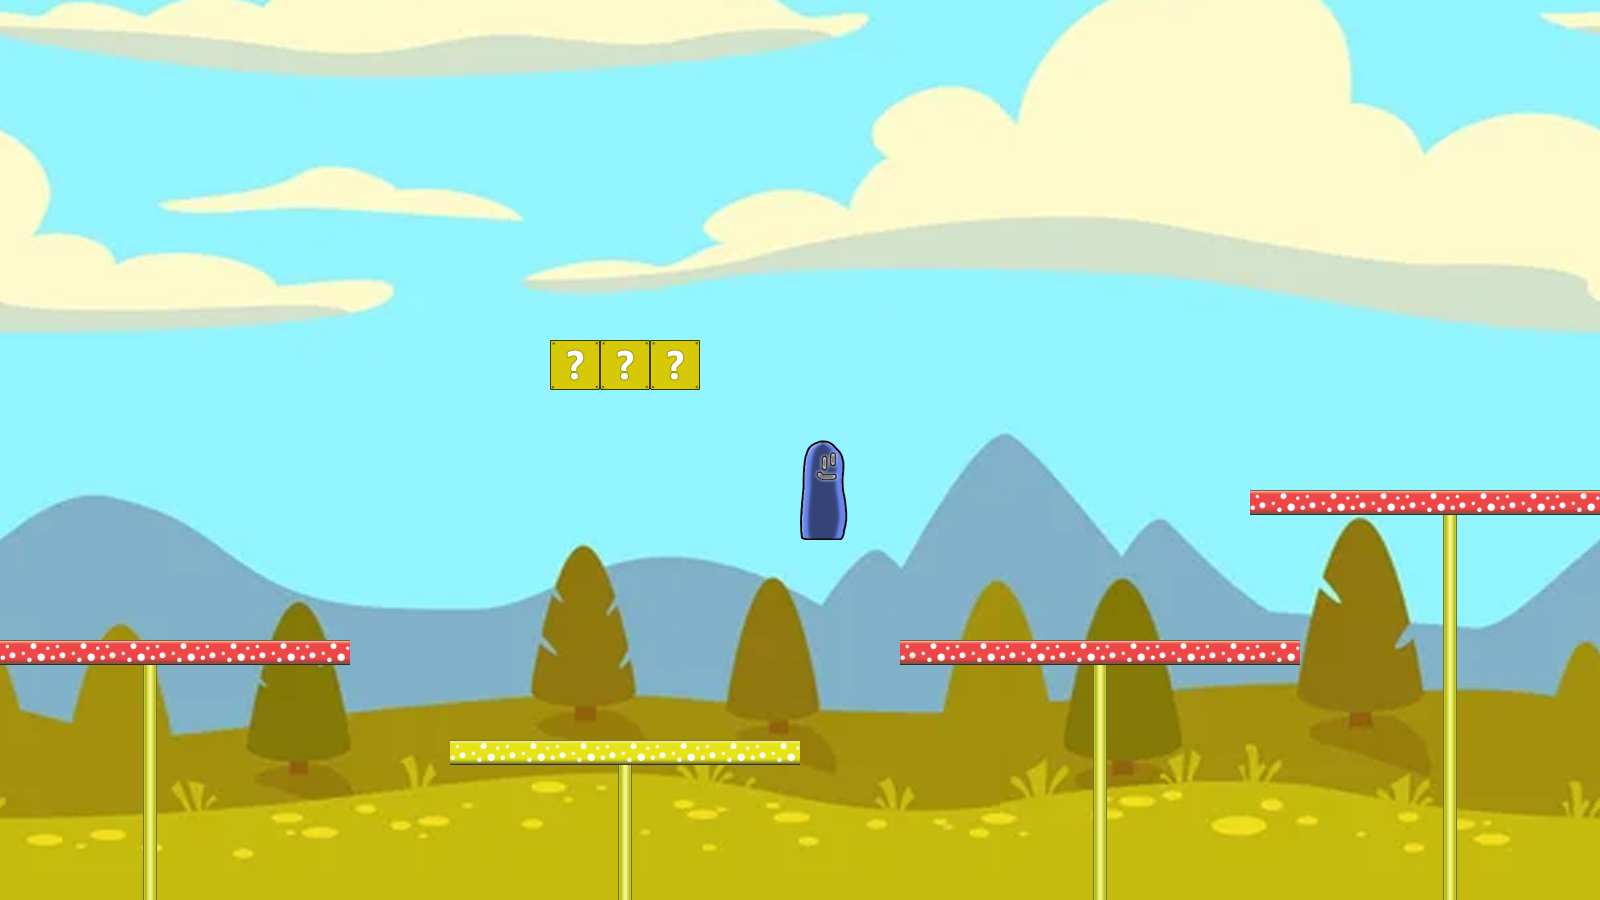
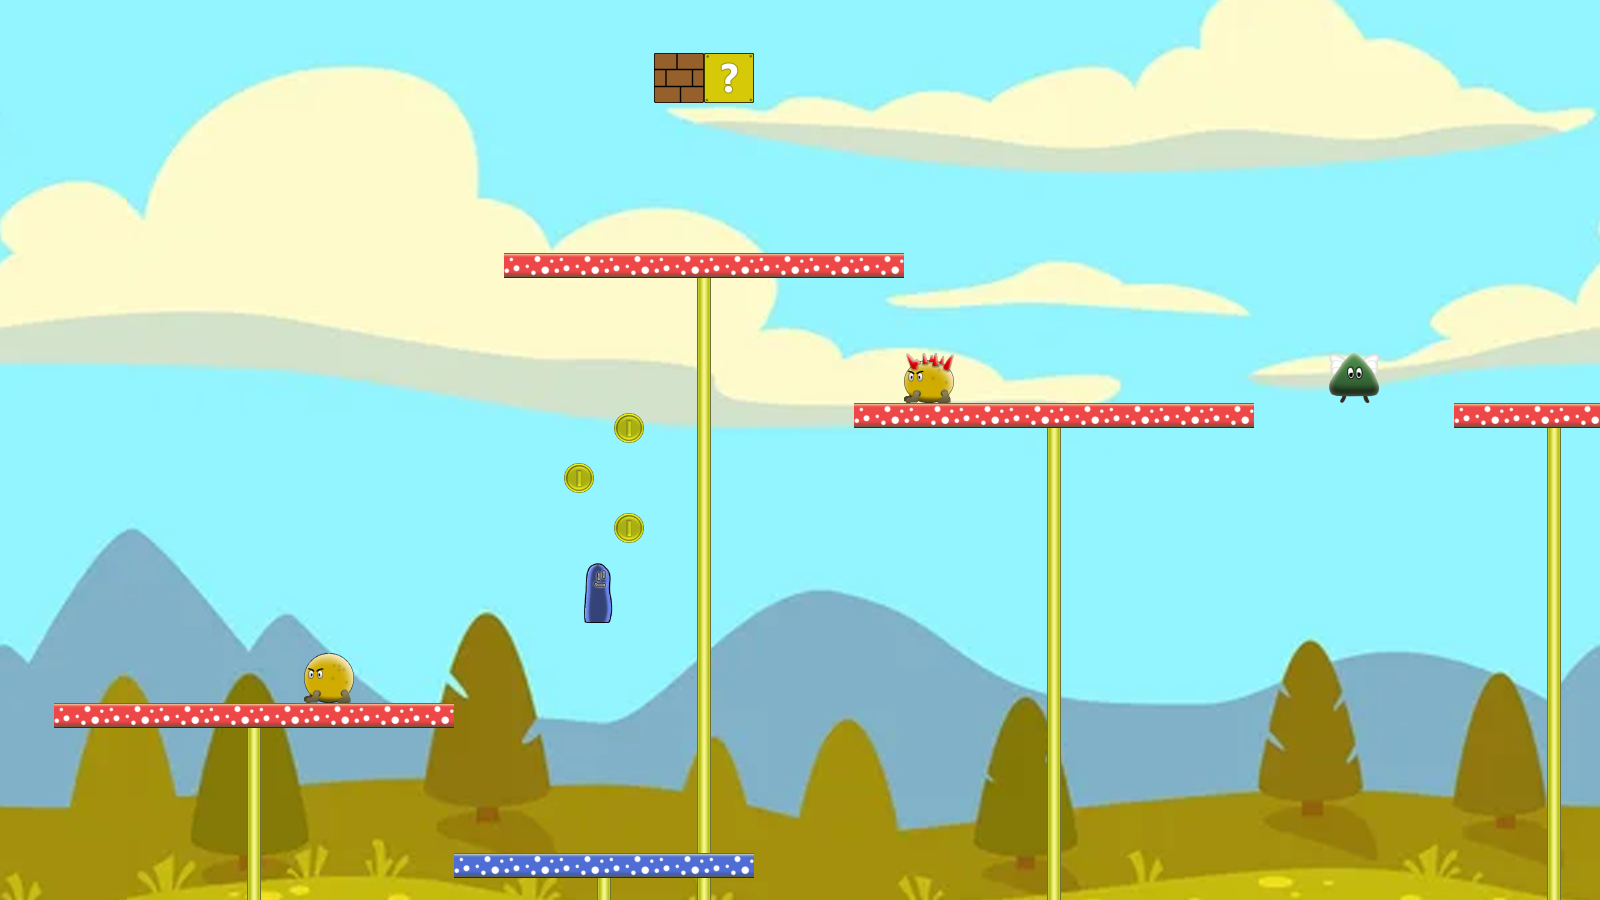
Level 3
- Finished level 3
- New flying enemies

diff --git a/scripts/classes.js b/scripts/classes.js
@@ -104,6 +104,21 @@ export class Enemy extends InteractableProp {
   }
 }
 
+export class FlyingEnemy extends Enemy {
+  constructor (id, x, y, width, height, hitx, hity, hitwidth, hitheight, type, invincible, jumpable, moving, initialForward, speedFactorX, speedFactorY, endX, endY) {
+    super(id, x, y, width, height, hitx, hity, hitwidth, hitheight, type, invincible, jumpable, moving, initialForward, 1, false, false, false, null);
+    this.speedFactorX = speedFactorX;
+    this.speedFactorY = speedFactorY;
+    this.endX = endX;
+    this.endY = endY;
+    this.speedX = speedFactorX * VALUES.propSpeed;
+    this.speedY = speedFactorY * VALUES.propSpeed;
+    this.startX = x;
+    this.startY = y;
+    this.flying = true;
+  }
+}
+
 export class Coin extends InteractableProp {
   constructor(id, x, y) {
     super(id, x, y, VALUES.blockSize, VALUES.blockSize, (VALUES.blockSize - VALUES.coinSize) / 2, (VALUES.blockSize - VALUES.coinSize) / 2, VALUES.coinSize, VALUES.coinSize, 'coin');
@@ -206,7 +221,12 @@ export class World {
         }
         this.enemies = [];
         for (let enemy of data.enemies) {
-          this.enemies.push(new Enemy(t.p(enemy, 'id'), t.p(enemy, 'x'), t.p(enemy, 'y'), t.p(enemy, 'width'), t.p(enemy, 'height'), t.p(enemy.hitbox, 'x'), t.p(enemy.hitbox, 'y'), t.p(enemy.hitbox, 'width'), t.p(enemy.hitbox, 'height'), t.p(enemy, 'type'), t.p(enemy, 'invincible'), t.p(enemy, 'jumpable'), t.p(enemy, 'moving'), t.p(enemy, 'initialForward'), t.p(enemy, 'speedFactor'), t.p(enemy, 'stayOnGround'), t.p(enemy, 'physics'), t.p(enemy, 'removeOnCollision'), t.p(enemy, 'spawner')));
+          if (t.p(enemy, 'class') === 'FlyingEnemy') {
+            this.enemies.push(new FlyingEnemy(t.p(enemy, 'id'), t.p(enemy, 'x'), t.p(enemy, 'y'), t.p(enemy, 'width'), t.p(enemy, 'height'), t.p(enemy.hitbox, 'x'), t.p(enemy.hitbox, 'y'), t.p(enemy.hitbox, 'width'), t.p(enemy.hitbox, 'height'), t.p(enemy, 'type'), t.p(enemy, 'invincible'), t.p(enemy, 'jumpable'), t.p(enemy, 'moving'), t.p(enemy, 'initialForward'), t.p(enemy, 'speedFactorX'), t.p(enemy, 'speedFactorY'), t.p(enemy, 'endX'), t.p(enemy, 'endY')));
+          }
+          else {
+            this.enemies.push(new Enemy(t.p(enemy, 'id'), t.p(enemy, 'x'), t.p(enemy, 'y'), t.p(enemy, 'width'), t.p(enemy, 'height'), t.p(enemy.hitbox, 'x'), t.p(enemy.hitbox, 'y'), t.p(enemy.hitbox, 'width'), t.p(enemy.hitbox, 'height'), t.p(enemy, 'type'), t.p(enemy, 'invincible'), t.p(enemy, 'jumpable'), t.p(enemy, 'moving'), t.p(enemy, 'initialForward'), t.p(enemy, 'speedFactor'), t.p(enemy, 'stayOnGround'), t.p(enemy, 'physics'), t.p(enemy, 'removeOnCollision'), t.p(enemy, 'spawner')));
+          }
         }
         this.finish = new Finish(data.finish.x, data.finish.y);
         this.player = new Player(data.player.x, data.player.y, data.player.state);

diff --git a/scripts/editor.js b/scripts/editor.js
@@ -1,7 +1,7 @@
 import { EDITORHTML } from './editorhtml.js';
 import { EDITORVALUES } from './editorvalues.js';
 import { VALUES } from './values.js';
-import { Prop, StaticProp, InteractableProp, MovingProp, Spawner, Finish, Player, Enemy, Coin, Block, Item, Fire, World } from './classes.js';
+import { Prop, StaticProp, InteractableProp, MovingProp, Spawner, Finish, Player, Enemy, FlyingEnemy, Coin, Block, Item, Fire, World } from './classes.js';
 import { Graphics } from './graphics.js';
 
 export class Editor {
@@ -66,6 +66,7 @@ export class Editor {
         html = EDITORHTML.propertySelect.replaceAll('{{property}}', property);
         let options;
         switch (thisProp.constructor.name) {
+          case 'FlyingEnemy':
           case 'Enemy': {
             options = EDITORVALUES.enemyTypes;
             break;
@@ -477,6 +478,13 @@ export class Editor {
       }
       case 'enemy': {
         prop = new Enemy(id, defaults.x, defaults.y, defaults.width, defaults.height, defaults.hitx, defaults.hity, defaults.hitwidth, defaults.hitheight, defaults.type, defaults.invincible, defaults.jumpable, defaults.moving, defaults.initialForward, defaults.speedFactor, defaults.stayOnGround, defaults.physics, defaults.removeOnCollision);
+        this.game.world.enemies.push(prop);
+        propsOutline = outline.querySelector('[data-outline="enemies"] .Outline__Item--Content');
+        html = EDITORHTML.outlineProp.replaceAll('{{location}}', 'enemies').replaceAll('{{id}}', id).replaceAll('{{class}}', 'Enemy');
+        break;
+      }
+      case 'flyingenemy': {
+        prop = new FlyingEnemy(id, defaults.x, defaults.y, defaults.width, defaults.height, defaults.hitx, defaults.hity, defaults.hitwidth, defaults.hitheight, defaults.type, defaults.invincible, defaults.jumpable, defaults.moving, defaults.initialForward, defaults.speedFactorX, defaults.speedFactorY, defaults.endX, defaults.endY);
         this.game.world.enemies.push(prop);
         propsOutline = outline.querySelector('[data-outline="enemies"] .Outline__Item--Content');
         html = EDITORHTML.outlineProp.replaceAll('{{location}}', 'enemies').replaceAll('{{id}}', id).replaceAll('{{class}}', 'Enemy');

diff --git a/scripts/editorvalues.js b/scripts/editorvalues.js
@@ -9,7 +9,7 @@ export const EDITORVALUES = {
     'ArrowUp': 'up',
     'ArrowDown': 'down'
   },
-  enemyTypes: ['spike', 'bubble', 'desertspike', 'desertbubble', 'toxicplant', 'rocket'],
+  enemyTypes: ['spike', 'bubble', 'desertspike', 'desertbubble', 'wingman', 'toxicplant', 'rocket'],
   finishTypes: ['finishflag'],
   levels: ['level1', 'level2', 'level3', 'dev'],
   moveSpeed: 1,
@@ -71,6 +71,25 @@ export const EDITORVALUES = {
       removeOnCollision: false,
       spawner: null
     },
+    flyingenemy: {
+      x: 0,
+      y: 0,
+      width: 50,
+      height: 50,
+      hitx: 0,
+      hity: 0,
+      hitwidth: 50,
+      hitheight: 50,
+      invincible: false,
+      jumpable: true,
+      moving: true,
+      initialForward: false,
+      type: "wingman",
+      speedFactorX: 0,
+      speedFactorY: 1,
+      endX: 0,
+      endY: 0
+    },
     coin: {
       x: 0,
       y: 0
@@ -130,7 +149,8 @@ export const EDITORVALUES = {
     removeOnCollision: 'checkbox',
     background: 'select',
     music: 'select',
-    state: 'select'
+    state: 'select',
+    flying: 'checkbox'
   },
   propTypes: ['grass', 'dirt', 'sand', 'sandground', 'cloud', 'brick', 'brickhit', 'orangeplatform', 'solidblock', 'solidblock2', 'finishground', 'pipe', 'pipetop', 'mushroomcap', 'mushroomcapblue', 'mushroomcapyellow', 'mushroomstem'],
   skipProperties: {
@@ -139,6 +159,7 @@ export const EDITORVALUES = {
     Block: ['solid', 'ground', 'bounce', 'bounceFactor'],
     MovingProp: ['speedX', 'speedY', 'moving'],
     Enemy: ['speedX', 'speedY', 'grounded', 'ground', 'forward'],
+    FlyingEnemy: ['speedX', 'speedY', 'grounded', 'ground', 'forward', 'speedFactor', 'startX', 'startY', 'stayOnGround', 'physics', 'removeOnCollision', 'flying'],
     Coin: ['width', 'height', 'hitbox'],
     default: ['hit', 'id', 'startX', 'startY', 'nextSpawn', 'spawner', 'shotCooldown', 'lastY']
   },
@@ -157,7 +178,7 @@ export const EDITORVALUES = {
     player: {
       x: 100,
       y: 100,
-      state: 1
+      state: 'super'
     },
     time: 180000
   }

diff --git a/scripts/game.js b/scripts/game.js
@@ -1,5 +1,5 @@
 import { VALUES } from './values.js';
-import { Prop, StaticProp, InteractableProp, MovingProp, Spawner, Finish, Player, Enemy, Coin, Block, Item, Fire, World } from './classes.js';
+import { Prop, StaticProp, InteractableProp, MovingProp, Spawner, Finish, Player, Enemy, FlyingEnemy, Coin, Block, Item, Fire, World } from './classes.js';
 import { Graphics } from './graphics.js';
 import { Sounds } from './sounds.js';
 
@@ -66,6 +66,12 @@ export class Game {
         this.closePopup(popup);
         this.loadLevel(this.world.id);
         this.sounds.play('restart');
+      });
+    });
+    // Back to menu
+    document.querySelectorAll('[data-href="menu"]').forEach((link) => {
+      link.addEventListener('click', () => {
+        this.sounds.stop(this.world.music);
       });
     });
   }
@@ -379,6 +385,26 @@ export class Game {
       if (!enemy.moving || enemy.remove) continue;
       if (enemy.physics) {
         this.processPropPhysics(enemy);
+      }
+      else if (enemy.flying) {
+        enemy.x += this.deltaTime * enemy.speedX;
+        enemy.y += this.deltaTime * enemy.speedY;
+        if (enemy.speedX > 0 && enemy.x >= enemy.endX) {
+          enemy.speedX *= -1;
+          enemy.x = enemy.endX;
+        }
+        else if (enemy.speedX < 0 && enemy.x <= enemy.startX) {
+          enemy.speedX *= -1;
+          enemy.x = enemy.startX;
+        }
+        if (enemy.speedY > 0 && enemy.y >= enemy.endY) {
+          enemy.speedY *= -1;
+          enemy.y = enemy.endY;
+        }
+        else if (enemy.speedY < 0 && enemy.y <= enemy.startY) {
+          enemy.speedY *= -1;
+          enemy.y = enemy.startY;
+        }
       }
       else {
         enemy.lastY = enemy.y;

diff --git a/html/editor.html b/html/editor.html
@@ -124,6 +124,7 @@
                     <option value="movingprop" data-t="movingProp"></option>
                     <option value="block" data-t="block"></option>
                     <option value="enemy" data-t="enemy"></option>
+                    <option value="flyingenemy" data-t="flyingEnemy"></option>
                     <option value="coin" data-t="coin"></option>
                     <option value="spawner" data-t="spawner"></option>
                 </select>

diff --git a/scripts/locales.js b/scripts/locales.js
@@ -26,6 +26,7 @@ const locales = {
     movingProp: 'Bewegliches Objekt',
     block: 'Block',
     enemy: 'Gegner',
+    flyingEnemy: 'Fliegender Gegner',
     coin: 'Münze',
     create: 'Erstellen',
     saveLevel: 'Level Speichern',
@@ -85,6 +86,7 @@ const locales = {
     movingProp: 'Moving Prop',
     block: 'Block',
     enemy: 'Enemy',
+    flyingEnemy: 'Flying Enemy',
     coin: 'Coin',
     create: 'Create',
     saveLevel: 'Save level',

diff --git a/scripts/menu.js b/scripts/menu.js
@@ -1,5 +1,5 @@
 (function() {
-  const levels = [ 'dev', 'level1', 'level2', 'level3' ];
+  const levels = [ 'level1', 'level2', 'level3' ];
   const levelHtml = `<a class="Level" data-href="game">
     <div class="Level__Content" data-name="{{name}}" data-complete="false" style="background-image: url(/images/{{name}}.png);">
       <div class="Level__Text">

diff --git a/scripts/assetloader.js b/scripts/assetloader.js
@@ -88,6 +88,14 @@ const textures = [
     height: "50"
   },
   {
+    type: "wingman",
+    src: "textures/Wingman.png",
+    imageWidth: "100",
+    imageHeight: "100",
+    width: "50",
+    height: "50"
+  },
+  {
     type: "grass",
     src: "textures/Grass.png",
     imageWidth: "100",
